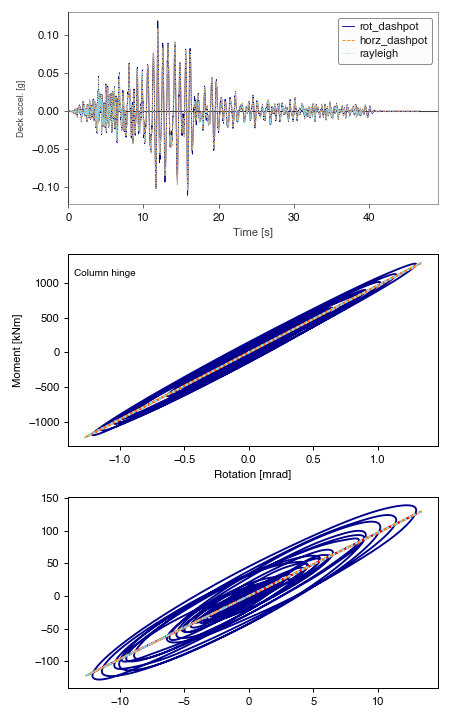
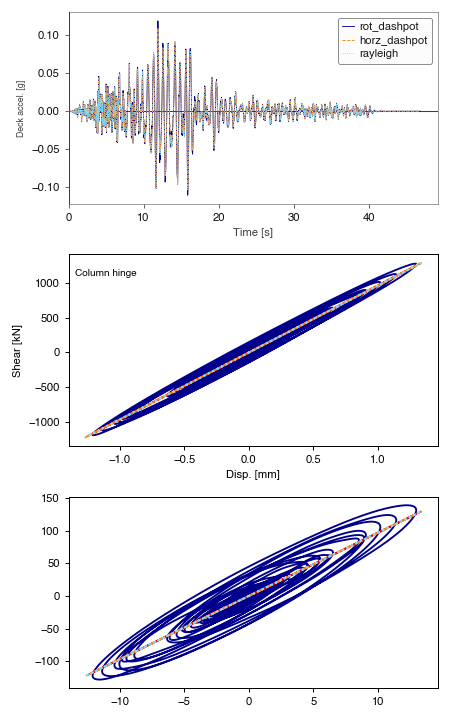
added more sdof recorder examples.

diff --git a/sdofs/fig_sdof_eval_recorder_chord_rotation.py b/sdofs/fig_sdof_eval_recorder_chord_rotation.py
@@ -17,7 +17,7 @@ plt.rcParams['ps.fonttype'] = 42  # To avoid type 3 fonts
 
 
 
-def get_response(bd, asig, dtype, l_ph):
+def get_response(bd, asig, l_ph):
     """
     Compute the response of a nonlinear lollipop on a foundation with linear/nonlinear soil
     Units are N, m, s
@@ -48,25 +48,14 @@ def get_response(bd, asig, dtype, l_ph):
     ele_nodes = [bot_ss_node, top_ss_node]
 
     # Superstructure element
-    vert_ele = o3.element.ElasticBeamColumn2D(osi, ele_nodes, area=area, e_mod=e_mod, iz=iz, transf=transf)
+    elastic_sect = o3.section.Elastic2D(osi, e_mod, area, iz)
+    integ = o3.beam_integration.HingeMidpoint(osi, elastic_sect, l_ph, elastic_sect, l_ph, elastic_sect)
+    vert_ele = o3.element.ForceBeamColumn(osi, ele_nodes, transf, integ)
 
     omega = 2 * np.pi / bd.t_fixed
 
-    # define superstructure damping using rotational spring approach from Millen et al. (2017) to avoid double damping
-    if dtype == 'rot_dashpot':
-        cxx = bd.xi * 2 * np.sqrt(bd.mass_eff * bd.k_eff)
-        equiv_c_rot = cxx * (2.0 / 3) ** 2 * bd.h_eff ** 2
-        ss_rot_dashpot_mat = o3.uniaxial_material.Viscous(osi, equiv_c_rot, alpha=1.)
-        sfi_dashpot_ele = o3.element.TwoNodeLink(osi, [bot_ss_node, top_ss_node], mats=[ss_rot_dashpot_mat],
-                                            dirs=[o3.cc.DOF2D_ROTZ])
-    elif dtype == 'horz_dashpot':
-        cxx = bd.xi * 2 * np.sqrt(bd.mass_eff * bd.k_eff)
-        ss_rot_dashpot_mat = o3.uniaxial_material.Viscous(osi, cxx, alpha=1.)
-        sfi_dashpot_ele = o3.element.ZeroLength(osi, [bot_ss_node, top_ss_node], mats=[ss_rot_dashpot_mat],
-                                            dirs=[o3.cc.X])
-    else:
-        beta_k = 2 * bd.xi / omega
-        o3.rayleigh.Rayleigh(osi, 0, 0, beta_k_init=beta_k, beta_k_comm=0.0)
+    beta_k = 2 * bd.xi / omega
+    o3.rayleigh.Rayleigh(osi, 0, 0, beta_k_init=beta_k, beta_k_comm=0.0)
 
 
     # Define the input motion for the dynamic analysis
@@ -95,8 +84,6 @@ def get_response(bd, asig, dtype, l_ph):
         "chord_rots": o3.recorder.ElementToArrayCache(osi, vert_ele, arg_vals=['chordRotation']),
         "col_forces": o3.recorder.ElementToArrayCache(osi, vert_ele, arg_vals=['force']),
     }
-    if dtype in ['rot_dashpot', 'horz_dashpot']:
-        od['dashpot_force'] = o3.recorder.ElementToArrayCache(osi, sfi_dashpot_ele, arg_vals=['force'])
 
     o3.analyze(osi, int(analysis_time / analysis_dt), analysis_dt)
 
@@ -120,8 +107,6 @@ def create():
     Run an SDOF using three different damping options
 
     """
-    dtypes = ['rot_dashpot', 'horz_dashpot', 'rayleigh']
-    # dtypes = ['rayleigh']
     lss = ['-', '--', ':']
 
     bd = sm.SDOFBuilding()
@@ -136,27 +121,33 @@ def create():
     asig = eqsig.load_asig(ap.MODULE_DATA_PATH + 'gms/' + record_filename, m=0.5)
 
     bf, sps = plt.subplots(nrows=3, figsize=(5, 8))
+    dtype = 'Column'
+    c = 0
+    outputs = get_response(bd, asig, l_ph=l_ph)
+    # Time series plots
+    sps[0].plot(outputs['time'], outputs['deck_accel'] / 9.8, c=cbox(c), lw=0.7, label=dtype, ls=lss[c])
+    sps[1].plot(outputs['hinge_rotation'] * 1e3, outputs['col_moment'] / 1e3, c=cbox(c), label=dtype, ls=lss[c])
+    sps[1].plot(outputs['hinge_rotation1'] * 1e3, outputs['col_moment'] / 1e3, c='m', label=dtype, ls=lss[c])
+    sps[1].plot(outputs['rel_deck_disp'] / bd.h_eff * 1e3, outputs['col_moment'] / 1e3, c='g',
+                label=dtype)
+    sps[2].plot(outputs['rel_deck_disp'] * 1e3, outputs['col_shear'] / 1e3, c=cbox(c), label=dtype, ls=lss[c])
 
-    for c, dtype in enumerate(dtypes):
+    ei = bd.k_eff * bd.h_eff ** 3 / 3
 
-        outputs = get_response(bd, asig, dtype=dtype, l_ph=l_ph)
-        # Time series plots
-        sps[0].plot(outputs['time'], outputs['deck_accel'] / 9.8, c=cbox(c), lw=0.7, label=dtype, ls=lss[c])
-        sps[1].plot(outputs['hinge_rotation'] * 1e3, outputs['col_moment'] / 1e3, c=cbox(c), label=dtype, ls=lss[c])
-        sps[2].plot(outputs['rel_deck_disp'] * 1e3, outputs['col_shear'] / 1e3, c=cbox(c), label=dtype, ls=lss[c])
-        if dtype == 'rot_dashpot':
-            sps[1].plot(outputs['hinge_rotation'] * 1e3, (outputs['col_moment'] - outputs['dashpot_force'][:, 2] / 2) / 1e3, c='r', label=dtype)
-            sps[2].plot(outputs['rel_deck_disp'] * 1e3, (outputs['col_shear'] - 3. / 2. * outputs['dashpot_force'][:, 2] / bd.h_eff) / 1e3, c='r', label=dtype)
+    moms = np.array([-1000e3, 1000e3])
+    k_offset = ei / (bd.h_eff * 1. / 3)  # deflection / length
+    sps[1].plot(moms / k_offset * 1e3, moms / 1e3, c='k', label='Predicted')
 
+    k_offset = ei / (bd.h_eff * 1. / 3) * 2  # end_slope * length - (deflection / length)
+    sps[1].plot(moms / k_offset * 1e3, moms / 1e3, c='r', label='Predicted - end2')
     sps[0].set_ylabel('Deck accel. [g]', fontsize=7)
     sps[0].set_xlabel('Time [s]')
-    ef.text_at_rel_pos(sps[1], 0.1, 0.9, 'Column hinge')
     sps[1].set_xlabel('Rotation [mrad]')
     sps[1].set_ylabel('Moment [kNm]')
     sps[1].set_ylabel('Shear [kN]')
     sps[1].set_xlabel('Disp. [mm]')
 
-    ef.revamp_legend(sps[0])
+    ef.revamp_legend(sps[1])
 
     ef.xy(sps[0], x_origin=True)
     ef.xy(sps[0], x_axis=True, y_axis=True)
